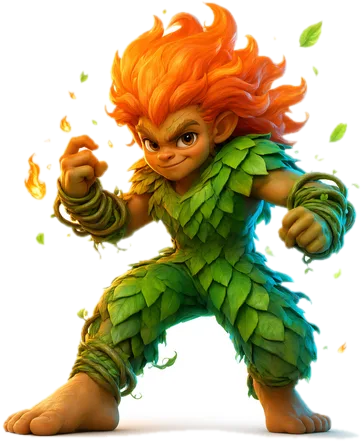
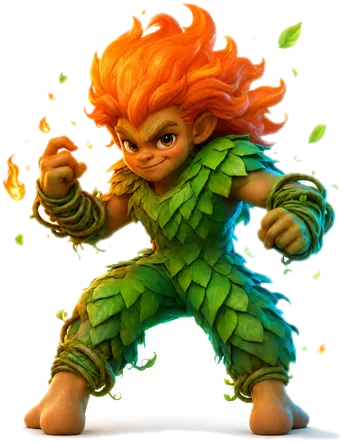
Curupira de frente com os pés virados para trás
Claude-Session: https://claude.ai/code/session_013RvNPxCpQ3XkrZW1SP4WYz

diff --git a/docs/PROJETO.md b/docs/PROJETO.md
@@ -224,7 +224,7 @@ Ainda pendente: `sabidex.com` não está ligado na Cloudflare; Ciências e Geogr
 
 ## 7. Registro de mudanças
 
-- **12/11/2026** · Álbum em duas seções, **Bichos do Brasil** e **Lendas do Brasil**, cada uma com a sua contagem; as lendas continuam sendo Sabimons (Lucas; antes testamos abas separadas e ele preferiu seções). Desenhos das lendas corrigidos: Saci com uma perna só, Mula sem cabeça também na forma 1, Iara com formas 2 e 3 bem diferentes, Curupira de costas com as pegadas ao contrário (o gerador não consegue desenhar pés virados). O gerador de arte ganhou o modo `corrigir` em `arte/pedido.json` (o desenho pronto vira referência e o pedido diz só o que mudar).
+- **12/11/2026** · Álbum em duas seções, **Bichos do Brasil** e **Lendas do Brasil**, cada uma com a sua contagem; as lendas continuam sendo Sabimons (Lucas; antes testamos abas separadas e ele preferiu seções). Desenhos das lendas corrigidos: Saci com uma perna só, Mula sem cabeça também na forma 1, Iara com formas 2 e 3 bem diferentes, Curupira de frente com os pés virados para trás (feito com o modelo Sunburst no modo `corrigir`; o Qwen não conseguia). O gerador de arte ganhou o modo `corrigir` em `arte/pedido.json` (o desenho pronto vira referência e o pedido diz só o que mudar).
 
 - **06/11/2026** · **Orca, Sabimon nº 21** (Lucas): Água, épica, Ondorca → Marorca → Tsunorca; álbum vai para 63 figurinhas. A conquista "Todos os bichos" virou "Grande coleção" (20 Sabimons diferentes), para ninguém perder a conquista que já tinha. Depois, no mesmo dia: **Lendas do Brasil**, Sabimons 22 a 29 (Saci, Curupira, Mula sem cabeça, Caipora, Boitatá, Iara, Lobisomem, Boi-bumbá), com página própria no álbum (Lucas). Álbum foi para 87. Ficou para depois: um jeito de as crianças tirarem mais cartas.
 

diff --git a/arte/LEIAME.md b/arte/LEIAME.md
@@ -6,3 +6,4 @@ Os desenhos dos Sabimons são gerados pelo Higgsfield através do GitHub (arquiv
 - A lista dos Sabimons e das descrições está em `arte/sabimons/lista.json`. O estilo vem de `docs/ARTE-SABIMONS.md`.
 - Para pedir imagens, edite `arte/pedido.json` (ex.: `{"acao": "gerar", "formas": [1]}`). O resultado aparece em `arte/resultado.json` e as imagens em `arte/sabimons/originais/`.
 - A forma 1 é feita só com o texto. As formas 2 e 3 usam a forma 1 como imagem de referência.
+- Para **corrigir um detalhe** de um desenho pronto: `{"acao": "gerar", "formas": [], "corrigir": {"023-1": "o que mudar"}}`. Se o modelo padrão não acertar, tente `"modeloRef": "marketing-studio/image/sunburst"` (foi o que conseguiu virar os pés do Curupira).
